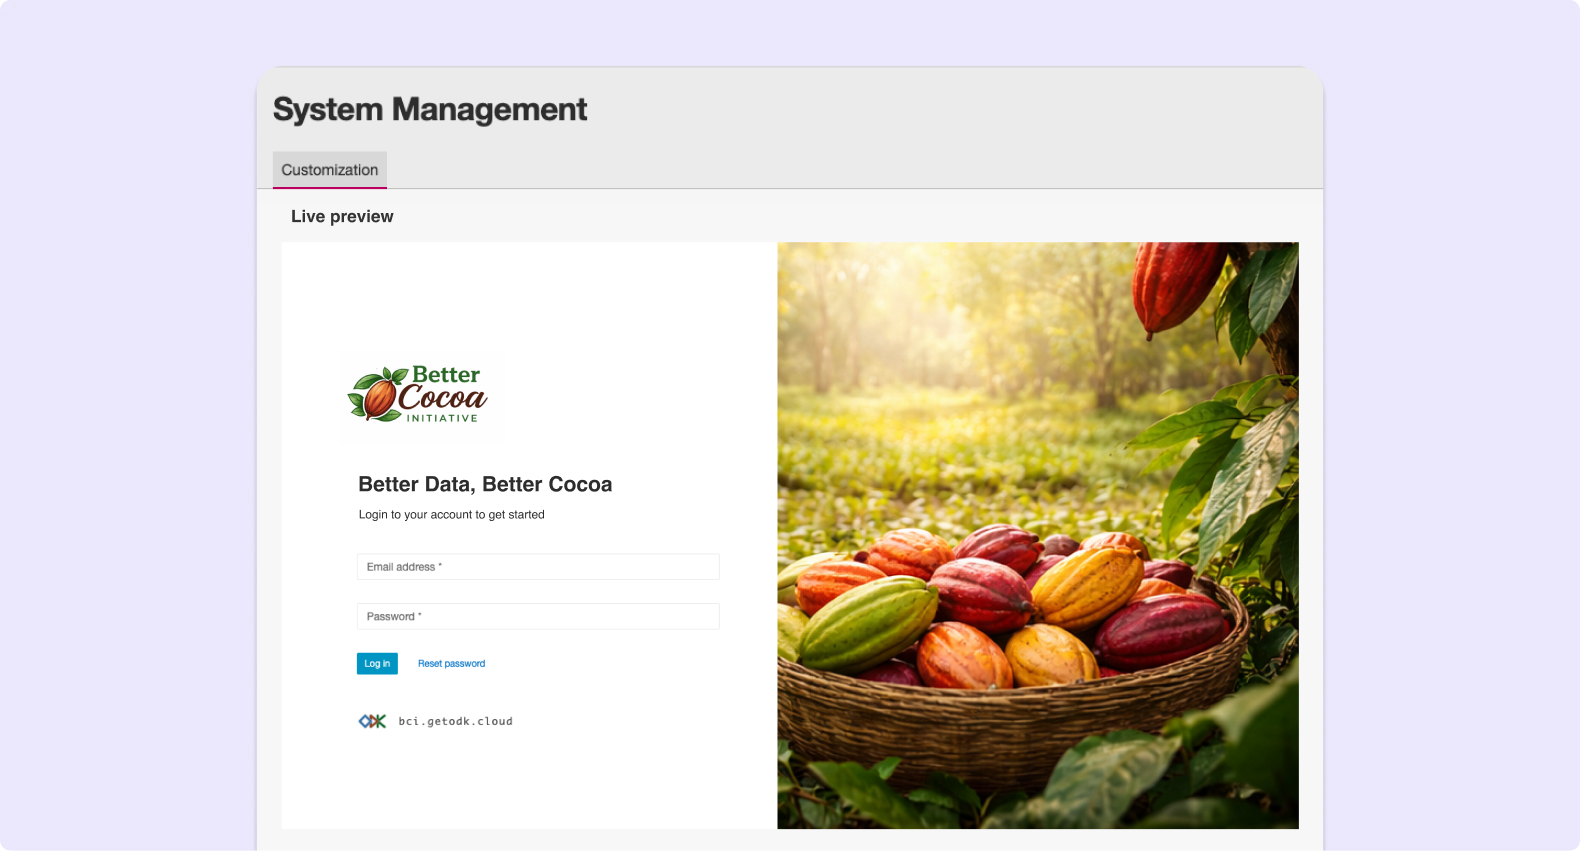
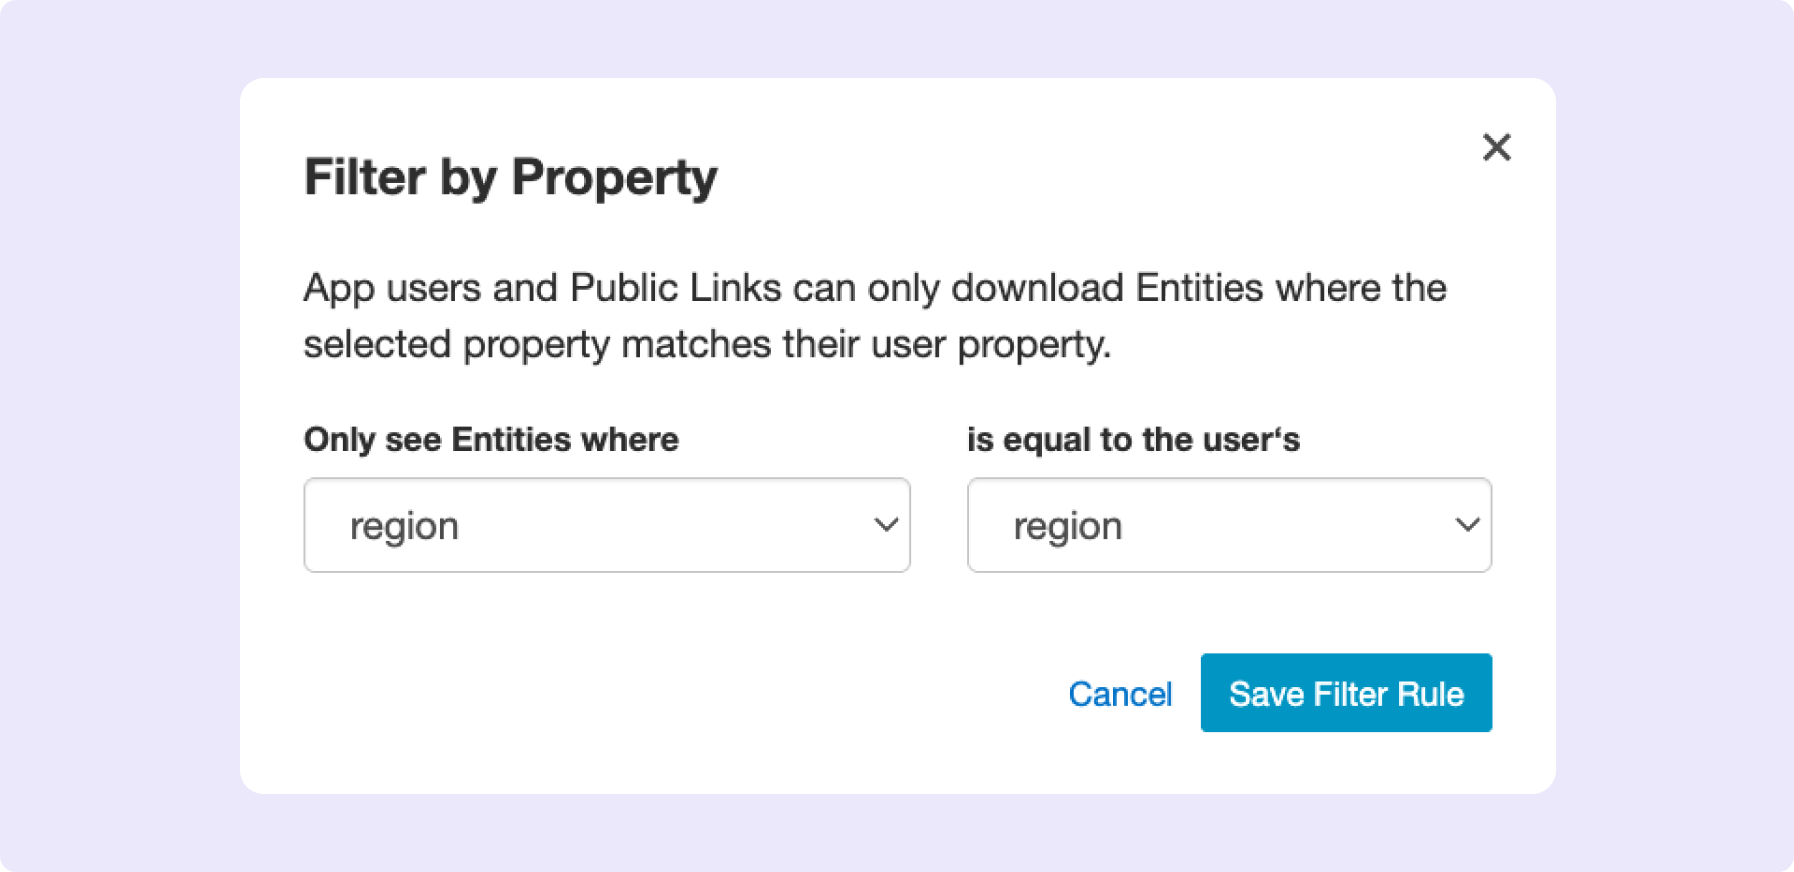
Update What's New modal for v2026.2 (#1676)

Pull request: Update What's New modal for v2026.2
This PR updates the What's New modal (closes getodk/central#1847):

- Updates the text of the modal (title + body)
- Updates who can see the modal
  - In v2026.1, we restricted Data Collector users from seeing the modal. However, IIRC we actually intended to show the modal to everyone for that release. For v2026.2, I think it's similarly OK to show the modal to everyone.
  - I've refactored the related code to make it easy to limit the modal to a particular audience if we prefer (e.g., just project managers and sitewide administrators for .2).
- Does *not* update the image (**UPDATE:** now it does update the modal)
  - I didn't see that there was a new image yet in Figma, so I'm thinking I'll update that in a follow-up PR. I'll either wait to close the issue until I update the image, or I'll file a follow-up issue about the image. I don't think the image has a big bearing on the risk of regression. I can check the image myself manually/locally.

#### What has been done to verify that this works as intended?

Updated tests.

#### Why is this the best possible solution? Were any other approaches considered?

I'll add a few comments about particular lines.

diff --git a/apps/central/src/components/whats-new.vue b/apps/central/src/components/whats-new.vue
@@ -53,7 +53,10 @@ const isVisible = ref(false);
 const initialOptIn = currentUser.preferences.site.mailingListOptIn;
 const mailingListOptIn = ref(currentUser.preferences.site.mailingListOptIn !== false);
 
-const currentVersion = '2026.1';
+const currentVersion = '2026.2';
+// You can use requiredVerb to limit who sees the What's New modal under the
+// current version. Specify project.read to show the modal to everyone.
+const requiredVerb = 'project.read';
 
 const isOlderVersion = (stored, current) => {
   // compare stored vs. current year & release
@@ -66,12 +69,11 @@ watch(() => projects.dataExists, () => {
   const showModal = !currentUser.preferences.site.whatsNewDismissed ||
     isOlderVersion(currentUser.preferences.site.whatsNewDismissed, currentVersion);
 
-  // When updating `canUpdateForm` in the future, consider the *verb* for the audience.
-  // For 2025.4, we decided it could be shown to project viewers as well,
-  // where the previous modal was only shown to admins and project managers.
-  const canUpdateForm = currentUser.can('submission.list') ||
-    projects.data.some(project => project.verbs.has('submission.list'));
-  if (canUpdateForm && // Check that user is admin or is able to edit forms in at least one project
+  // Check that the user has requiredVerb on at least one project.
+  const hasRequiredVerb = currentUser.can(requiredVerb) ||
+    projects.data.some(project => project.verbs.has(requiredVerb));
+
+  if (hasRequiredVerb &&
     !openModal.state && // Check that no other modal (e.g. new project) is open
     showModal) {
     isVisible.value = true;
@@ -127,8 +129,8 @@ function hideModal() {
   {
     "en": {
       // This is the title at the top of a pop-up.
-      "title": "🎨 Branded login pages, Entity List cleanups, and file uploads in Web Forms",
-      "body": "Customize the login page with your branding, clean up Entity Lists and Properties when they are no longer needed, and upload any file to your Web Forms."
+      "title": "Entity Filtering 🎯 and ODK Web Forms by Default 🌐",
+      "body": "Control which Entities each App User or Public Link receives with filtering rules based on custom properties. Plus, Web Forms is now the default web form experience, bringing a faster, more intuitive experience for form previews, data editing, and web-based form filling."
     }
   }
 </i18n>

diff --git a/apps/central/test/components/account/login.spec.js b/apps/central/test/components/account/login.spec.js
@@ -160,7 +160,11 @@ describe('AccountLogin', () => {
   });
 
   it('shows an info alert if the password is too short', () => {
-    testData.extendedUsers.createPast(1, { email: '[email redacted]', role: 'none' });
+    testData.extendedUsers.createPast(1, {
+      email: '[email redacted]',
+      role: 'none',
+      preferences: { site: { whatsNewDismissed: '2026.2' }, projects: {} }
+    });
     return load('/login')
       .restoreSession(false)
       .complete()

diff --git a/apps/central/test/components/whats-new.spec.js b/apps/central/test/components/whats-new.spec.js
@@ -5,7 +5,7 @@ import testData from '../data';
 import { load } from '../util/http';
 import { mockLogin } from '../util/session';
 
-const currentVersion = '2026.1';
+const currentVersion = '2026.2';
 
 describe('WhatsNew modal', () => {
   describe('shows modal', () => {
@@ -62,7 +62,7 @@ describe('WhatsNew modal', () => {
   });
 
   describe('does not show modal', () => {
-    it('does not show modal to data collector', async () => {
+    it.skip('does not show modal to data collector', async () => {
       mockLogin({ role: 'none' });
       testData.extendedProjects.createPast(1, { role: 'formfill' });
       const app = await load('/', { root: false }, { users: false });

diff --git a/apps/central/test/data/seed.js b/apps/central/test/data/seed.js
@@ -37,6 +37,7 @@ export default () => {
         'form.delete',
         'form.restore',
         'project.create',
+        'project.read',
         'project.update',
         'public_link.create',
         'public_link.list',
@@ -60,6 +61,7 @@ export default () => {
       system: 'app-user',
       verbs: [
         'form.read',
+        'project.read',
         'submission.create'
       ]
     })
@@ -89,6 +91,7 @@ export default () => {
         'form.update',
         'form.delete',
         'form.restore',
+        'project.read',
         'project.update',
         'public_link.create',
         'public_link.list',
@@ -111,6 +114,7 @@ export default () => {
         'entity.read',
         'form.list',
         'form.read',
+        'project.read',
         'submission.list',
         'submission.read'
       ]

diff --git a/apps/central/karma.conf.js b/apps/central/karma.conf.js
@@ -63,7 +63,7 @@ module.exports = (config) => {
       // Images
       '/v1/config/public/hero-image': '/base/src/assets/images/whats-new/[email redacted]',
       '/v1/config/public/logo': '/base/src/assets/images/odk-logo.png',
-      '/img/[email redacted]': '/base/src/assets/images/whats-new/[email redacted]', // Smaller resolution for circleCI test
+      '/img/[email redacted]': '/base/src/assets/images/whats-new/[email redacted]', // Smaller resolution for circleCI test
       '/img/fullscreen.37a932a6.svg': '/base/src/assets/images/geojson-map/fullscreen.svg'
     },
     preprocessors: {